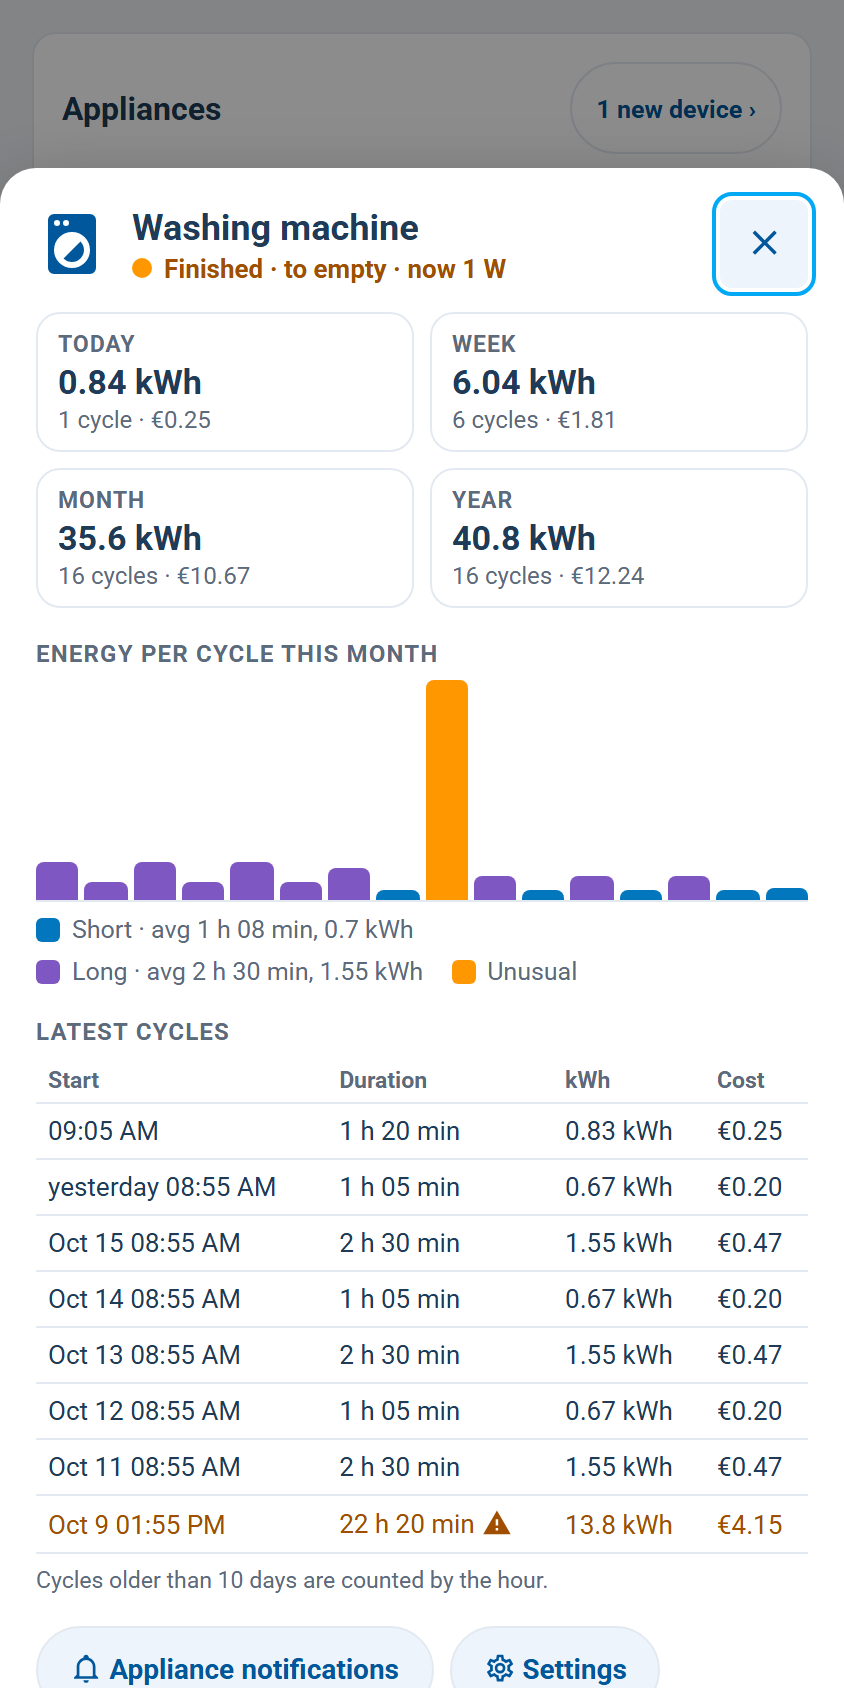
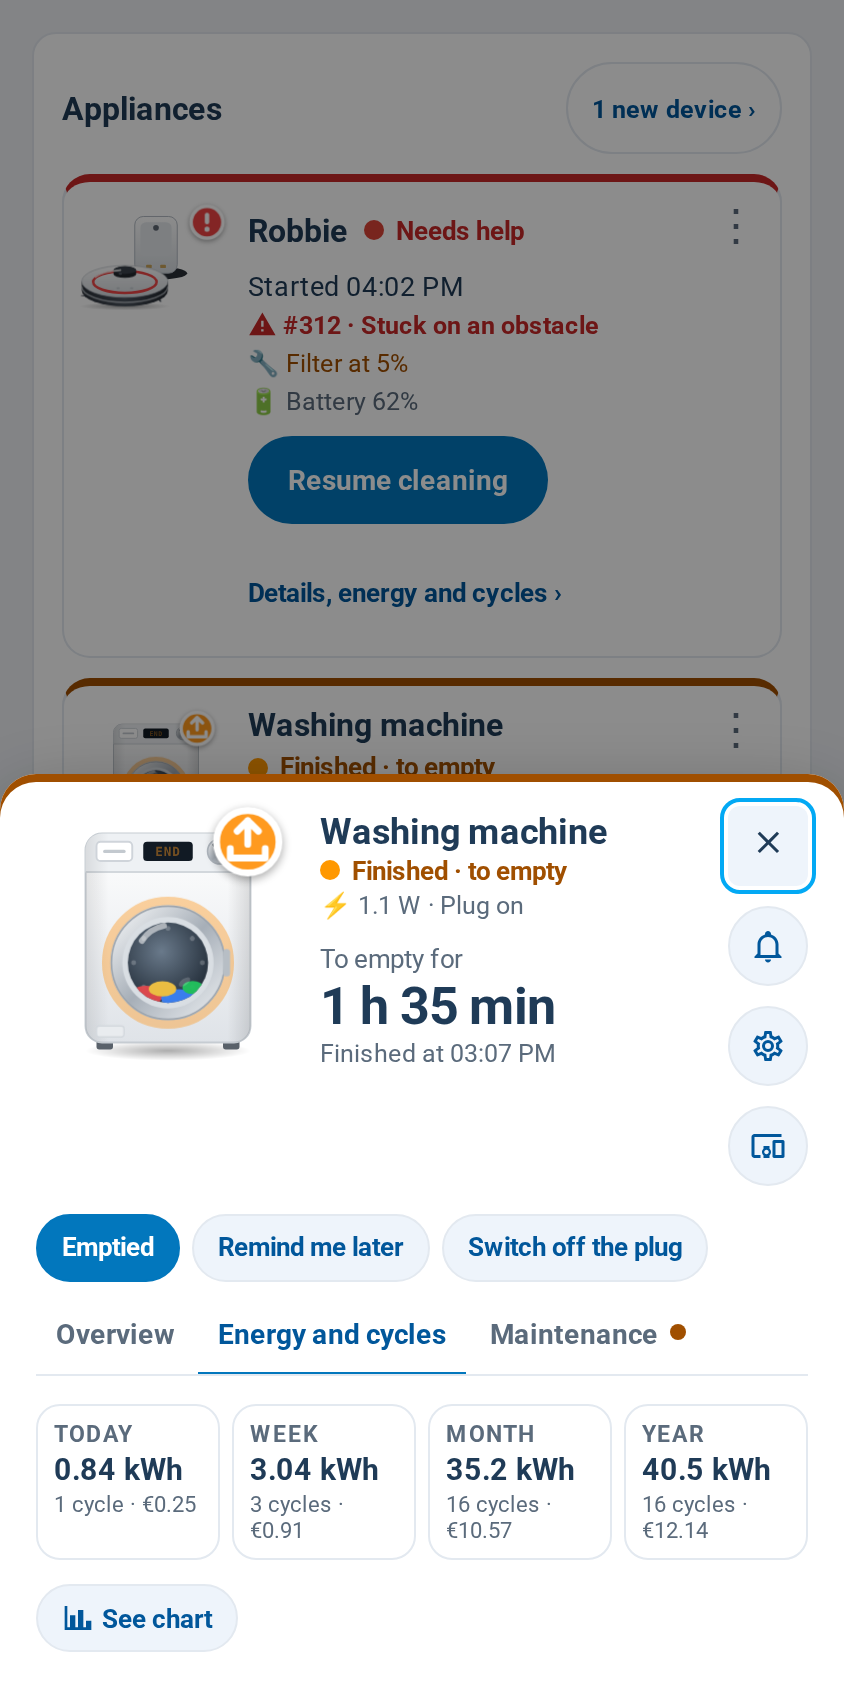
docs: appliances 0.2.19 - text and screenshots
- appliances.md: notifications found by an emoji/extra-word title or by tag
  (0.2.17-0.2.18), empty info: rows hidden (0.2.15), overview rows two by two
  (0.2.16), a mop-wash trip to the dock does not split a cleaning (0.2.19);
  what is worn or due is a dot on its tab, not an overview row (0.2.13).
- New shots: Overview tab, full-screen chart, a robot's Commands and
  Consumables tab; the card and panel shots redone with the drawings.
- showcase.mjs: a dehumidifier added by hand (devices:, info:), maintenance on
  the washing machine, the robot's consumables and buttons of its own.
- README: supernotify-devices-card, its alias and devices added by hand.

Claude-Session: https://claude.ai/code/session_01XLVghobMRyHYfspArPqx4T

diff --git a/docs/cards/appliances.md b/docs/cards/appliances.md
@@ -67,6 +67,8 @@ device says - the power now and the plug (with **Switch off the plug**), a robot
 consumables, a printer's progress, layer and temperatures; the buttons that make sense now
 (**Emptied**, **Remind me later**, **Resume cleaning**) and a link to the device in Home Assistant.
 
+<img src="../images/appliances_overview.png" alt="details panel, Overview tab" width="720">
+
 The second tab - **Energy and cycles**, **Cleanings** for a robot, **Prints** for a printer:
 
 <img src="../images/appliances_panel.png" alt="details panel" width="720">
@@ -79,6 +81,9 @@ The second tab - **Energy and cycles**, **Cleanings** for a robot, **Prints** fo
 - the day of each cycle under its bar, a dashed line for the average; a tap on a bar says that cycle
   (start, duration, kWh, cost), a second tap hides it;
 - the averages of short and long cycles, the last 7 days and the latest cycles in a table;
+
+  <img src="../images/appliances_chart.png" alt="full-screen chart" width="720">
+
 - **Appliance notifications** opens the archive card filtered on this appliance (on this page or
   on the Archive view), **Settings** the appliance's page in Appliance Autonotify.
 
@@ -96,7 +101,10 @@ config entry, so:
 - **running, finished, emptied** is what Autonotify itself sent through SuperNotify, read back from
   the archive: the start, the end, each reminder and the Finished button all carry its tag
   `appliance_<entry id>`. The thresholds are Autonotify's own, so the card agrees with the
-  notifications. Without SuperNotify's archive the power alone decides;
+  notifications. A notification is recognised by the appliance's name in its title, also with an
+  emoji or more words around it ("🧺 Lavatrice", "🤖 Bruno ha finito"), else by its tag when the
+  title is one of your own with no name in it ("🧺 Bucato pronto"). Without SuperNotify's archive the
+  power alone decides;
 - **cycles and energy** come from the recorder's statistics of the power sensor - 5-minute ones for
   the last 10 days, hourly ones before that (kept in this browser and never read again). Cycles
   older than 10 days are therefore counted by the hour. The power sensor needs
@@ -183,7 +191,8 @@ devices:
 Every row of the overview that comes from an entity - `info:`, a robot's consumables, a printer's
 temperatures - opens Home Assistant's own dialog of that entity when tapped: there you change a time, a
 level, a number or a switch, as anywhere in Home Assistant. An `info:` row can have a name of its own:
-`- { entity: number.bruno_water_flow_level, name: Water }`.
+`- { entity: number.bruno_water_flow_level, name: Water }`. A row whose value says nothing - an oven's
+phase "None" at rest, unknown, unavailable - is not shown.
 Two entities can share a row - `- { name: Mornings, entities: [input_datetime.from, input_datetime.to] }` shows
 "06:30 – 08:00", each tappable. What can be changed (times, numbers, selects, switches, automations) folds
 under **⚙ Settings** below the readings, so the card stays short.
@@ -240,14 +249,15 @@ appliances:
 ```
 
 The overview looks the same in every state: the drawing, the one thing that matters now beside it, the
-cycle in four boxes, then the rows. Beside the drawing: the end and its bar while it runs, how long it waits
+cycle in four boxes, then the rows, two side by side (one under each other below 360 px), each with
+its name and value on one line. Beside the drawing: the end and its bar while it runs, how long it waits
 to be emptied ("To empty for 2 h", with when it finished), the error when it needs help, the average cycle
 when idle. The band on top says the state. The boxes are the cycle under way (start, so far) or the last
 one: start (→ end), duration, energy, cost. Every row has an icon.
 
 Consumables (a robot's brushes and filters, as a grid of bars with short names) and maintenance have a tab
-of their own, **Consumables** (or **Maintenance** when there are only maintenance counters); the overview keeps
-one row saying what is worn or due, and a tap on it opens the tab. What can be changed (times, numbers,
+of their own, **Consumables** (or **Maintenance** when there are only maintenance counters); something worn
+or due puts a dot on that tab (orange near, red due; its tooltip says what). What can be changed (times, numbers,
 switches, automations) is in the **Settings** tab. Switching the plug off asks for a second tap.
 A band on top of the card and of the panel takes the colour of the state: blue running, orange to empty,
 red needs help.
@@ -273,7 +283,7 @@ appliances:
         warn_before: 5                                  # near from 5 cycles before (default: a tenth)
 ```
 
-The overview shows each one as "46 of 50 · in 4 cycles" with a bar. When it is near or due, the card and
+The **Maintenance** tab shows each one as "46 of 50 · in 4 cycles" with a bar. When it is near or due, the card and
 the row of the appliance say so ("🔧 Drum clean · in 4 cycles", "due now"). **Done** asks first, since the
 count starts again, then runs `done:`: a counter is reset, a script runs, a button is pressed, or any
 `tap_action` with `confirmation`, as in `actions:`. Without `done:` there is no Done button.
@@ -313,6 +323,10 @@ Year with the cleanings, the time and the m² from the robot's own totals (their
 `total_stats_cleanings`, `total_stats_time`, `total_stats_area` on Ecovacs), each cleaning this month
 as a bar (its duration), the average, and the latest cleanings with their area. The single cleanings
 come from the vacuum's state history (cleaning, returning, paused), as far back as the recorder keeps it.
+A trip back to the dock in the middle - to wash the mop - does not split a cleaning: runs less than 45
+minutes apart are one cleaning, unless the area of the one under way went back to zero between them.
+
+<img src="../images/appliances_robot.png" alt="a robot's panel: Commands and the Consumables tab" width="720">
 
 An appliance with a state of its own (a 3D printer, a Home Connect appliance) has the same panel with
 its prints or cycles, from the history of that state (Bambu Lab `print_status`, Home Connect

diff --git a/README.md b/README.md
@@ -63,7 +63,7 @@ Each link opens the card's page: screenshot, every option, examples.
 | [automations](https://github.com/lollox80/supernotify-cards/blob/main/docs/cards/automations.md) | The automations that notify, with search and enable/disable. |
 | [archive](https://github.com/lollox80/supernotify-cards/blob/main/docs/cards/archive.md) | Notification history and why each one went where it went, channel by channel, with pause. |
 | [why](https://github.com/lollox80/supernotify-cards/blob/main/docs/cards/why.md) | Since 0.85 an alias of archive, kept so existing dashboards work. |
-| [appliances](https://github.com/lollox80/supernotify-cards/blob/main/docs/cards/appliances.md) | The appliances of Appliance Autonotify: finished, stuck or running first, its buttons, energy and cycles (0.91). |
+| [appliances](https://github.com/lollox80/supernotify-cards/blob/main/docs/cards/appliances.md) | `supernotify-devices-card` (alias `supernotify-appliances-card`): the appliances of Appliance Autonotify and devices added by hand - finished, stuck or running first, animated drawings, buttons, maintenance, energy and cycles; one device per card with `device:` (0.91). |
 | [stats](https://github.com/lollox80/supernotify-cards/blob/main/docs/cards/stats.md) | Usage over 7/14/30 days: per day, hour, weekday, channel, priority. |
 | [tools](https://github.com/lollox80/supernotify-cards/blob/main/docs/cards/tools.md) | Maintenance actions and every SuperNotify question, with readable answers. |
 
